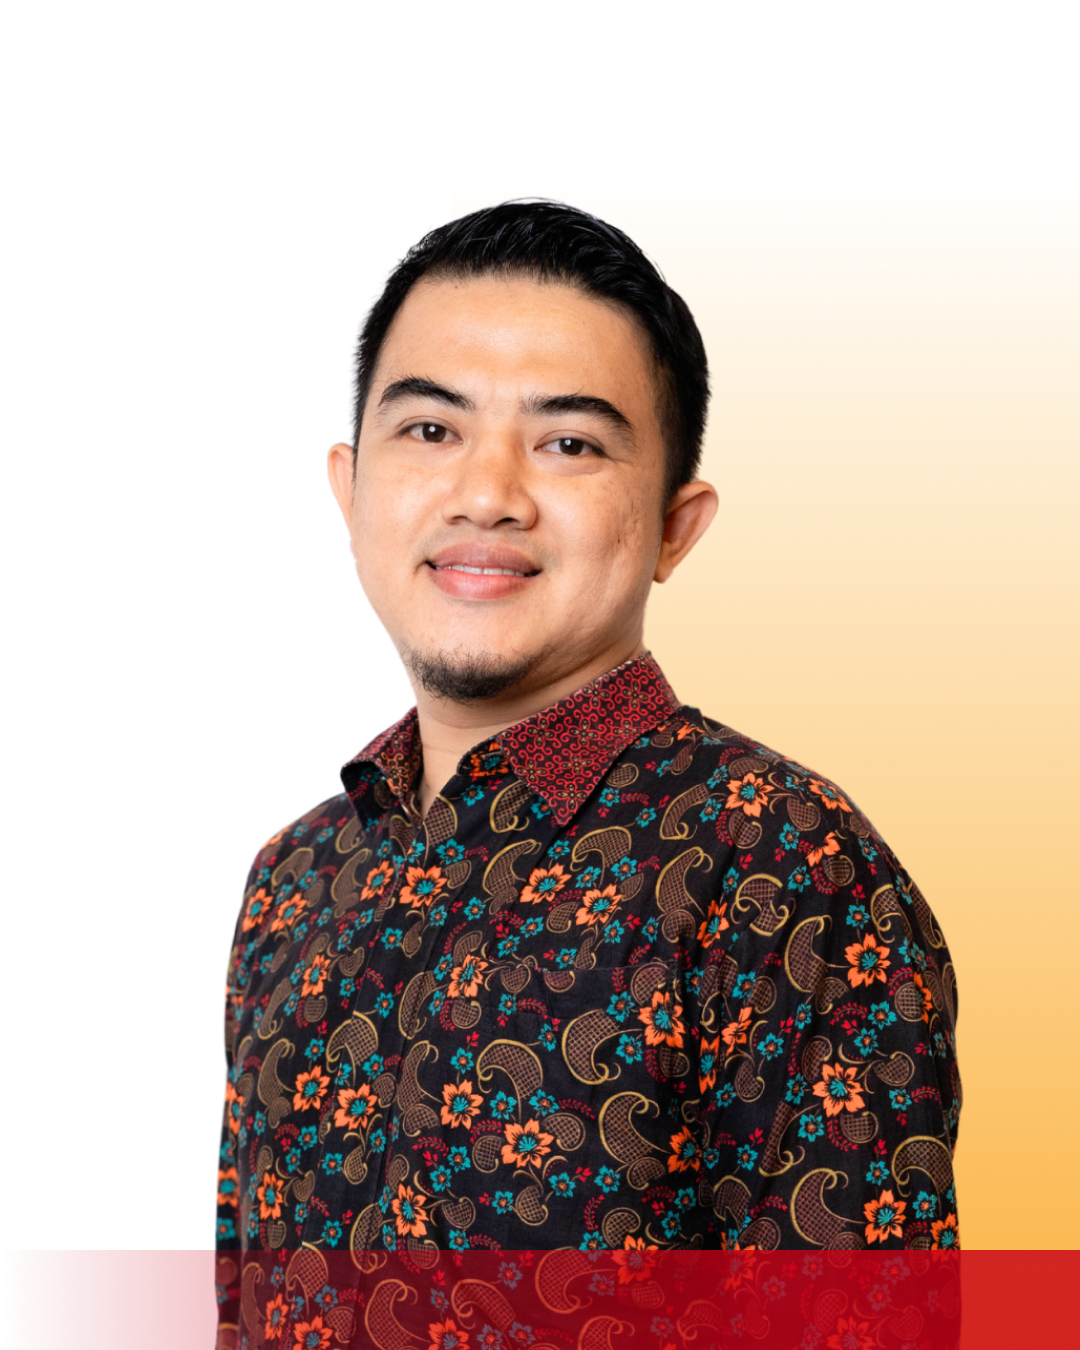
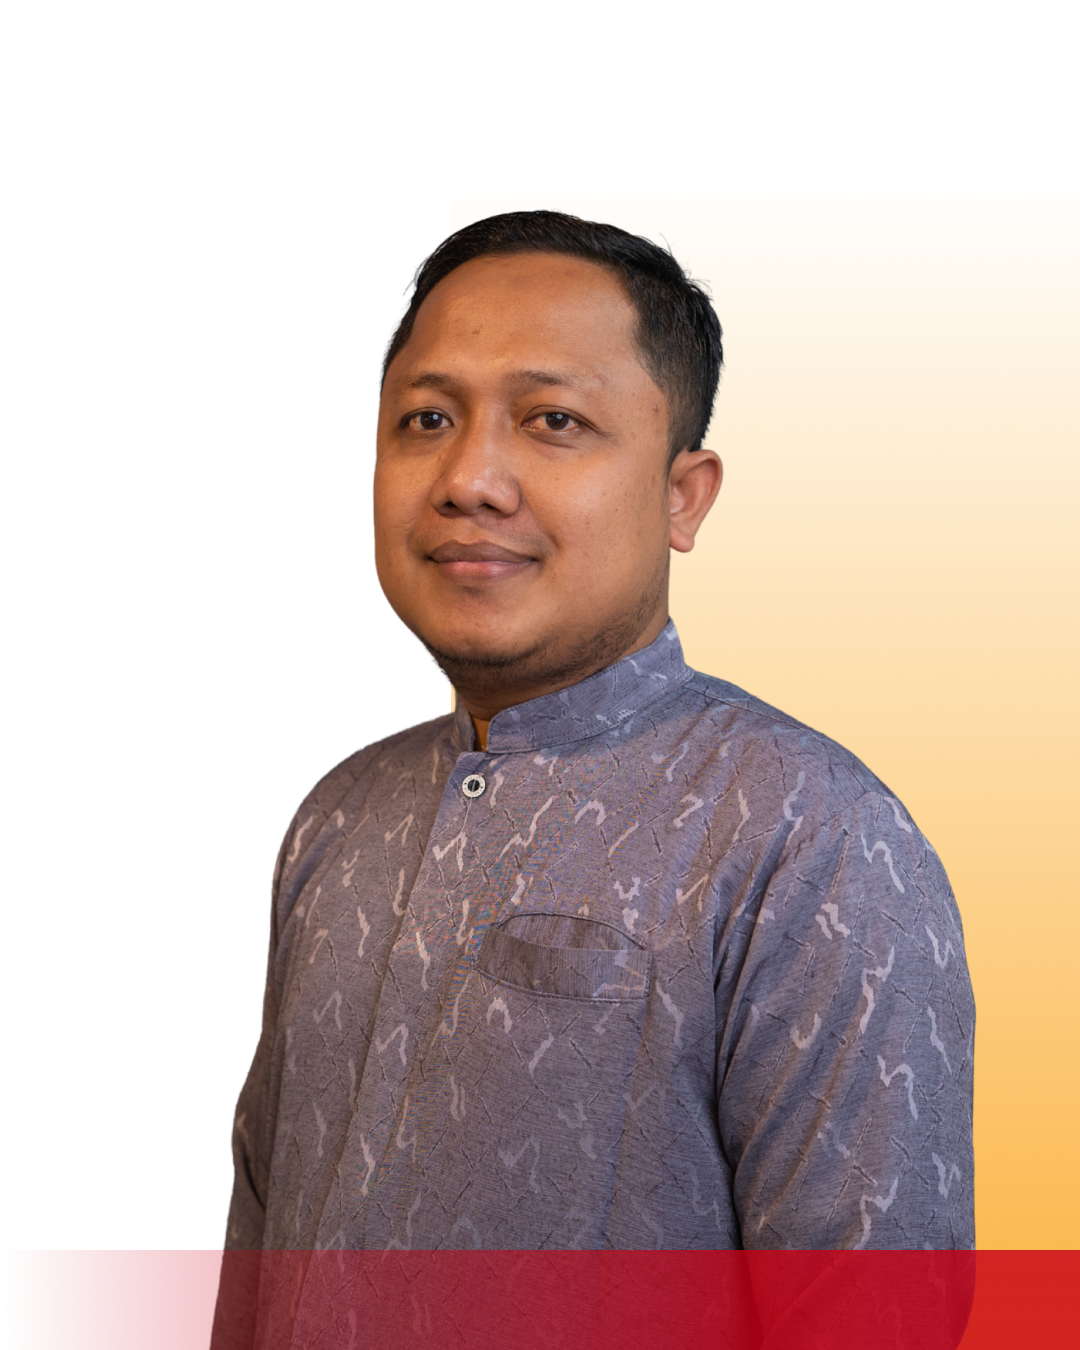
ganti foto direksi utama

diff --git a/src/components/AboutUs.jsx b/src/components/AboutUs.jsx
@@ -1,4 +1,4 @@
-import RhamdaniPhoto from "../assets/image/photo/Frame 24.png"
+import AliPhoto from "../assets/image/photo/Frame 24.png"
 import DudiPhoto from "../assets/image/photo/Frame 23.png"
 
 export default function AboutUs(){
@@ -19,10 +19,10 @@ export default function AboutUs(){
                 </div>
                 <div className="content-right">
                     <div className="cover-image">
-                        <img src={RhamdaniPhoto} alt="" />
+                        <img src={AliPhoto} alt="" />
                     </div>
                     <div className="title">
-                        <h4>Andri Rhamdani</h4>
+                        <h4>Ali Sadikin</h4>
                         <h5>Direktur Utama</h5>
                     </div>
                 </div>

diff --git a/src/index.css b/src/index.css
@@ -284,7 +284,7 @@ body{
     width: 100%;
     text-align: end;
     background-color: #ffffff;
-    transform: translate(-130px, -80px);
+    transform: translate(-170px, -80px);
     padding: 25px;
     border-radius: 10px;
     width: fit-content;
